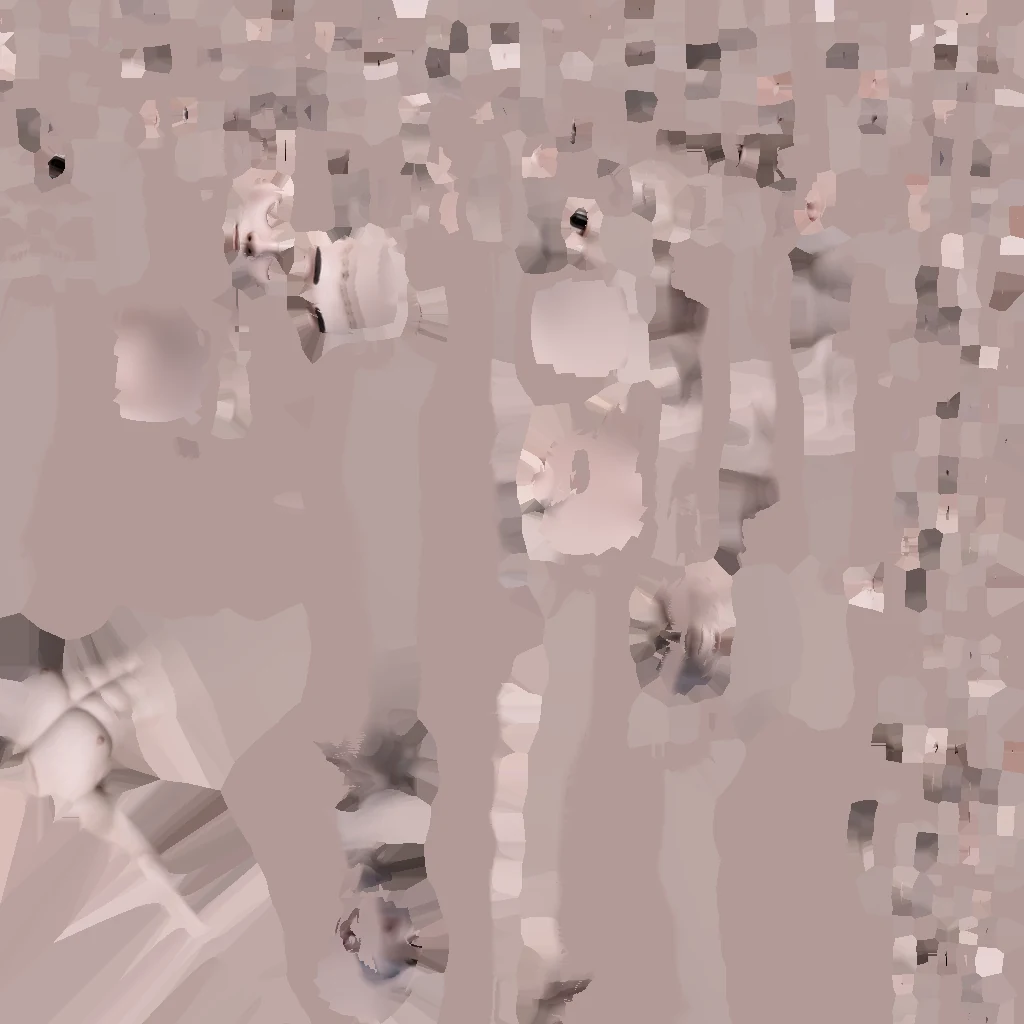
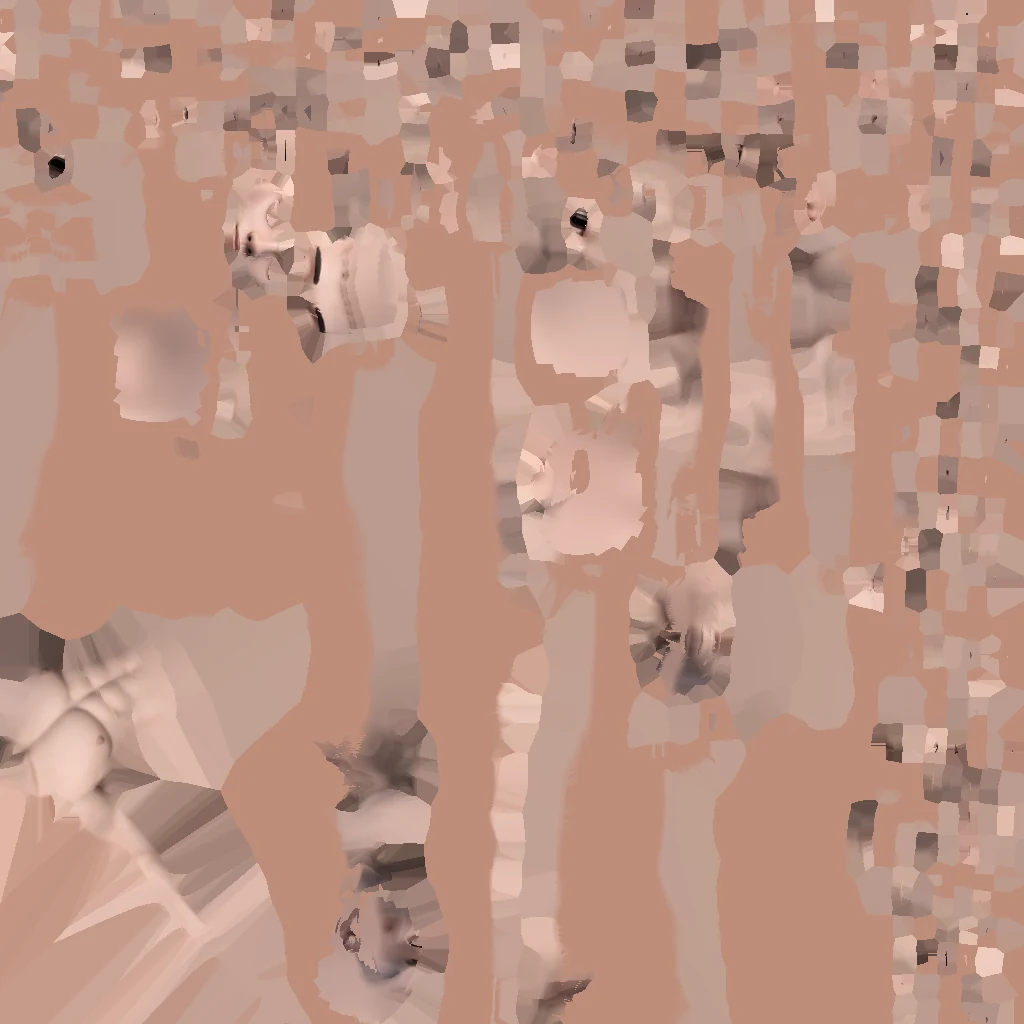
Male pipeline chunk 1: Cycles-baked AO (body/tee/jeans/shoes), sheet-matched warm skin grade, fresnel rim + cool fill in the character light rig

diff --git a/src/avatar3d.js b/src/avatar3d.js
@@ -1,3 +1,4 @@
+import { FresnelParameters } from '@babylonjs/core/Materials/fresnelParameters';
 // RECKLESS crew avatar, smooth rigged glTF (tools/blender/build_avatar.py): CC0 Quaternius base + UAL animations,
 // reshaped to the app's crew render proportions. Garments are skinned shells, swapped and tinted live from the wardrobe.
 import { SceneLoader } from '@babylonjs/core/Loading/sceneLoader';
@@ -58,6 +59,13 @@ export async function loadAvatar3D(scene, { name = 'player', base = import.meta.
     const t = gtex[g.id]; m.diffuseTexture = t; m.emissiveTexture = t;
     const c = Color3.FromHexString(g.col), L = 0.3 * c.r + 0.59 * c.g + 0.11 * c.b, f = L > 0.6 ? 0.26 : 0.4, d = L > 0.6 ? 0.6 : 0.78; // white garments: no blow-out
     m.emissiveColor = new Color3(f, f, f); m.diffuseColor = new Color3(d, d, d); };
+  // pipeline chunk 1 (male): Cycles-baked ambient occlusion per part + a texture-coloured fresnel rim (cheap, mobile-safe)
+  if (!FEM) {
+    const ao = (m, f, lvl = 1) => { const t = new Texture(TEX + 'ao_' + f + '.webp', scene, false, false, Texture.TRILINEAR_SAMPLINGMODE, null, () => { m.ambientTexture = null; }); t.level = lvl; m.ambientTexture = t; };
+    ao(skinM, 'Body'); ao(gm.tee, 'G_tee'); ao(gm.jeans, 'G_jeans'); ao(byName.G_shoes?.[0]?.material || skinM, 'G_shoes');
+    const rimF = () => { const f = new FresnelParameters(); f.leftColor = new Color3(1.55, 1.45, 1.35); f.rightColor = Color3.White(); f.power = 2.5; f.bias = 0; return f; };
+    for (const m of [skinM, ...Object.values(gm)]) m.emissiveFresnelParameters = rimF();
+  }
   // animation groups, blended by weight
   const AG = {}; for (const g of res.animationGroups) { g.stop(); AG[g.name] = g; }
   for (const k of ['idle', 'walk', 'jog', 'sprint', 'dance', 'jumpLoop', 'sit']) if (AG[k]) { AG[k].start(true, 1.0); AG[k].setWeightForAllAnimatables(k === 'idle' ? 1 : 0); }
@@ -88,11 +96,12 @@ export async function loadAvatar3D(scene, { name = 'player', base = import.meta.
   const lit = res.meshes.filter(m => m !== gltfRoot);
   const key = new PointLight(name + '-key', new Vector3(0, 2, 0), scene); key.diffuse = Color3.FromHexString('#ffd9b8'); key.specular = new Color3(0.05, 0.05, 0.05); key.intensity = 0.6; key.range = 9;
   const rim = new PointLight(name + '-rim', new Vector3(0, 2, 0), scene); rim.diffuse = Color3.FromHexString('#ffe6cc'); rim.specular = new Color3(0.03, 0.03, 0.03); rim.intensity = 0.32; rim.range = 9;
-  key.includedOnlyMeshes = lit; rim.includedOnlyMeshes = lit;
+  const fill = new PointLight(name + '-fill', new Vector3(0, 1.4, 0), scene); fill.diffuse = Color3.FromHexString('#b9c6ff'); fill.specular = Color3.Black(); fill.intensity = 0.22; fill.range = 9;
+  key.includedOnlyMeshes = lit; rim.includedOnlyMeshes = lit; fill.includedOnlyMeshes = lit;
   for (const m of new Set(lit.map(x => x.material).filter(Boolean))) m.maxSimultaneousLights = 8;
-  av.lights = [key, rim];
+  av.lights = [key, rim, fill];
   av.lightRig = (cam) => { const p = root.position, c = cam.position; let dx = c.x - p.x, dz = c.z - p.z; const L = Math.hypot(dx, dz) || 1; dx /= L; dz /= L;
-    key.position.set(p.x + dx * 2.2 - dz * 1.6, p.y + 2.3, p.z + dz * 2.2 + dx * 1.6); rim.position.set(p.x - dx * 2.0 + dz * 0.8, p.y + 2.0, p.z - dz * 2.0 - dx * 0.8); };
+    key.position.set(p.x + dx * 2.2 - dz * 1.6, p.y + 2.3, p.z + dz * 2.2 + dx * 1.6); rim.position.set(p.x - dx * 2.0 + dz * 0.8, p.y + 2.0, p.z - dz * 2.0 - dx * 0.8); fill.position.set(p.x + dx * 2.0 + dz * 1.8, p.y + 1.2, p.z + dz * 2.0 - dx * 1.8); };
   av.meshes = () => res.meshes.filter(m => m !== gltfRoot && m.isEnabled());
   av.allMeshes = () => res.meshes.filter(m => m !== gltfRoot);
   return av;

diff --git a/tools/blender/build_avatar.py b/tools/blender/build_avatar.py
@@ -557,6 +557,28 @@ for o in TEXM:
     bpy.ops.uv.smart_project(angle_limit=math.radians(60), island_margin=0.012, area_weight=0.0, scale_to_bounds=True)
     bpy.ops.object.mode_set(mode='OBJECT')
 arm.animation_data.action = ia; bpy.context.scene.frame_set(1); bpy.context.view_layer.update()
+# --- Pipeline chunk 1: Cycles ambient-occlusion bake (idle pose, starter fit as occluders) -> tex/ao_<part>.png (512)
+AO_DIR = os.environ.get('AO_DIR', '')
+if AO_DIR:
+    os.makedirs(AO_DIR, exist_ok=True); sc = bpy.context.scene; sc.render.engine = 'CYCLES'; sc.cycles.device = 'CPU'; sc.cycles.samples = 48
+    sc.render.bake.margin = 6; occ = {'Body', 'Hair', 'Curls', 'Eyes', 'G_tee', 'G_jeans', 'G_shoes', 'Soles'}
+    hid = [o for o in sc.objects if o.type == 'MESH' and o.name not in occ and not o.hide_render]
+    for o in hid: o.hide_render = True
+    for nm in ('Body', 'G_tee', 'G_jeans', 'G_shoes'):
+        o = sc.objects.get(nm)
+        if not o or not o.data.uv_layers: continue
+        img = bpy.data.images.new('ao_' + nm, 512, 512); bm = bpy.data.materials.new('bake_' + nm); bm.use_nodes = True
+        tn = bm.node_tree.nodes.new('ShaderNodeTexImage'); tn.image = img; bm.node_tree.nodes.active = tn
+        keep = [sl.material for sl in o.material_slots]
+        if not o.material_slots: o.data.materials.append(bm)
+        for sl in o.material_slots: sl.material = bm
+        bpy.ops.object.select_all(action='DESELECT'); bpy.context.view_layer.objects.active = o; o.select_set(True)
+        try:
+            bpy.ops.object.bake(type='AO', use_selected_to_active=False); img.filepath_raw = os.path.join(AO_DIR, 'ao_' + nm + '.png'); img.file_format = 'PNG'; img.save(); print('ao baked', nm)
+        except Exception as e: print('ao bake failed', nm, e)
+        for sl, m in zip(o.material_slots, keep): sl.material = m
+    for o in hid: o.hide_render = False
+    sc.render.engine = 'BLENDER_EEVEE_NEXT'
 dg = bpy.context.evaluated_depsgraph_get(); D = {}
 for o in TEXM:
     oe = o.evaluated_get(dg); me = oe.to_mesh(); me.calc_loop_triangles()

diff --git a/tools/bake_avatar_tex.py b/tools/bake_avatar_tex.py
@@ -146,6 +146,8 @@ if __name__ == '__main__':
     vis_all = depth_buffer(look_parts)
     sk = skin_mask(rgb) & alpha
     skin_c = np.median(rgb[sk], 0); print('skin', skin_c)
+    WARM = np.array([1.0, 1.0, 1.0]) if FEM else np.array([1.03, 0.96, 0.9])  # male: the app render's pinkish-grey skin -> the sheet's warm light skin
+    skin_c = np.clip(skin_c * WARM, 0, 1)
     # body skin: head region (face, ears, neck) projected with the head map; rest = arm skin with in-painting
     de_ = abs(er[1][0] - er[0][0]); scalp_ = np.zeros_like(alpha); scalp_[:int(eyy - 0.62 * de_)] = True  # above the brows: the app's hair
     head_front = fill(rgb, alpha & (skin_mask(rgb) | ((rgb.mean(-1) < 0.5) & ~scalp_)), 2)  # keep eyes/brows/lips (dark) on the face; scalp = skin under the fade
@@ -166,6 +168,7 @@ if __name__ == '__main__':
         Ab, mb_ = texels('Body', 1024); hcy = np.median(D['Eyes|co'][:, 1]) + 0.08; ezz = D['Eyes|co'][:, 2].mean()
         dk_ = (Ab[..., 2] > ezz + 0.035) & (Ab[..., 1] > hcy) | (Ab[..., 2] > ezz + 0.1) | (Ab[..., 2] > ezz - 0.07) & (Ab[..., 1] > hcy + 0.04)  # nape down to the hairline
         cBody[dk_ & mb_] = np.array([0.06, 0.05, 0.045])
+    if not FEM: cBody = np.clip(cBody * WARM, 0, 1)
     save(cBody, 'body')
     hairm = alpha & ~skin_mask(rgb) & (rgb.mean(-1) < 0.42)
     hy = np.where(alpha)[0].min(); hairm[int(eyy) - 8:] = False
